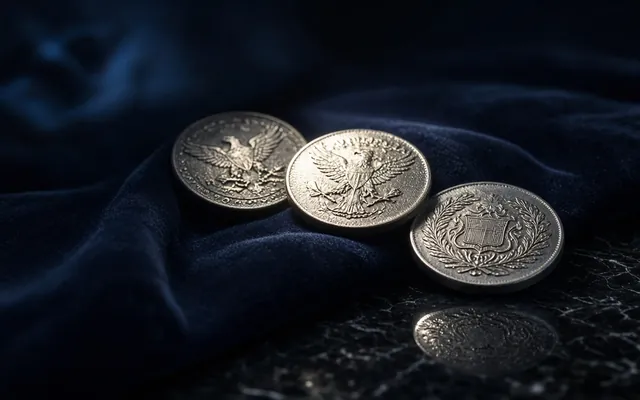
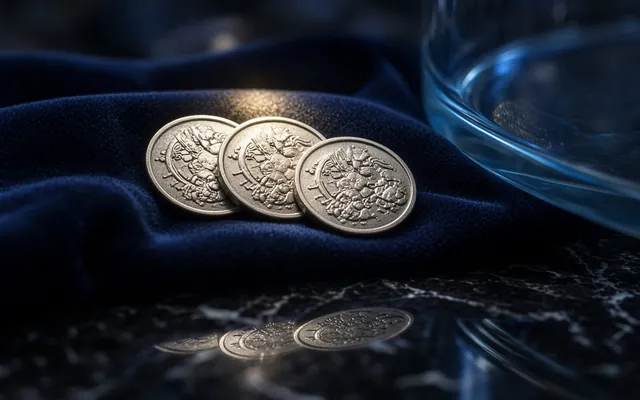
tr70: Grok v2 theme art (Prism, Midnight Gallery, The Mint, Shipwreck, Fireside Den hero)
Reviewed all 26 v2 takes; take1 wins for each world. Result notes in
docs/art/requests/artreq_20261001-1940_worlds-icons-v2.result.md.

Claude-Session: https://claude.ai/code/session_01LGUjV4xgKz72hfHsr21mJf

diff --git a/index.html b/index.html
@@ -46,9 +46,9 @@
       } catch (e) {}
     })();
   </script>
-  <link rel="stylesheet" href="styles.css?v=tr69" />
-  <link rel="stylesheet" href="splash.css?v=tr69" />
-  <link rel="stylesheet" href="styles/themes.css?v=tr69" />
+  <link rel="stylesheet" href="styles.css?v=tr70" />
+  <link rel="stylesheet" href="splash.css?v=tr70" />
+  <link rel="stylesheet" href="styles/themes.css?v=tr70" />
   <!-- Only the ACTIVE atmosphere's stylesheet loads (written here so it still blocks first paint: no flash of the wrong theme).
        Switching later is app.js (atmoCss loader): the new sheet loads first, then data-atmo flips and the old sheet is removed.
        sw.js precaches all 20 so switching works offline. styles/atmo/all.css is no longer linked. -->
@@ -60,19 +60,19 @@
       document.write('<link rel="stylesheet" id="atmo-css" data-atmo-css="' + a + '" href="styles/atmo/' + a + '.css' + window.__trAtmoQ + '">');
     })();
   </script>
-  <noscript><link rel="stylesheet" href="styles/atmo/afterhours.css?v=tr69" /></noscript>
-  <link rel="stylesheet" href="styles/slab-legibility.css?v=tr69" />
-  <!-- AGENT STYLE HOOKS: an agent replaces ONLY its own line with <link rel="stylesheet" href="styles/NAME.css?v=tr69" /> -->
-  <link rel="stylesheet" href="styles/hall.css?v=tr69" />
-  <link rel="stylesheet" href="styles/gallery.css?v=tr69" />
-  <link rel="stylesheet" href="styles/vault.css?v=tr69" />
-  <link rel="stylesheet" href="styles/study.css?v=tr69" />
-  <link rel="stylesheet" href="styles/wants.css?v=tr69" />
-  <link rel="stylesheet" href="styles/lab.css?v=tr69" />
-  <link rel="stylesheet" href="styles/table.css?v=tr69" />
-  <link rel="stylesheet" href="styles/fx.css?v=tr69" />
-  <link rel="stylesheet" href="styles/scene.css?v=tr69" />
-  <link rel="stylesheet" href="styles/worlds.css?v=tr69" />
+  <noscript><link rel="stylesheet" href="styles/atmo/afterhours.css?v=tr70" /></noscript>
+  <link rel="stylesheet" href="styles/slab-legibility.css?v=tr70" />
+  <!-- AGENT STYLE HOOKS: an agent replaces ONLY its own line with <link rel="stylesheet" href="styles/NAME.css?v=tr70" /> -->
+  <link rel="stylesheet" href="styles/hall.css?v=tr70" />
+  <link rel="stylesheet" href="styles/gallery.css?v=tr70" />
+  <link rel="stylesheet" href="styles/vault.css?v=tr70" />
+  <link rel="stylesheet" href="styles/study.css?v=tr70" />
+  <link rel="stylesheet" href="styles/wants.css?v=tr70" />
+  <link rel="stylesheet" href="styles/lab.css?v=tr70" />
+  <link rel="stylesheet" href="styles/table.css?v=tr70" />
+  <link rel="stylesheet" href="styles/fx.css?v=tr70" />
+  <link rel="stylesheet" href="styles/scene.css?v=tr70" />
+  <link rel="stylesheet" href="styles/worlds.css?v=tr70" />
   <!--WS:themes: shared atmosphere system + one stylesheet per atmosphere (notes/agents/themes.md)-->
 </head>
 <body>
@@ -1184,56 +1184,56 @@
 
     <div id="toast" class="toast" hidden role="status" aria-live="polite"></div>
   </div>
-  <script>window.TITAN_BUILD = "tr69";</script>
+  <script>window.TITAN_BUILD = "tr70";</script>
   <script src="js/three.min.js"></script>
-  <script src="splash.js?v=tr69"></script>
+  <script src="splash.js?v=tr70"></script>
   <script src="js/OrbitControls.js"></script>
   <script src="js/fflate.min.js"></script>
   <script src="js/USDZExporter.js"></script>
   <script src="js/qrcode.min.js"></script>
   <script src="js/openseadragon.min.js"></script>
-  <script src="spatial.js?v=tr69"></script>
-  <script src="deepzoom.js?v=tr69"></script>
-  <script src="atlas.js?v=tr69"></script>
-  <script src="app.js?v=tr69"></script>
-  <script src="js/playlist.js?v=tr69"></script>
-  <script src="audio.js?v=tr69"></script>
-  <script src="ambient.js?v=tr69"></script>
-  <script src="wings/atmo/core.js?v=tr69"></script>
-  <script src="wings/atmo/afterhours.js?v=tr69"></script>
-  <script src="wings/atmo/conservator.js?v=tr69"></script>
-  <script src="wings/atmo/colossus.js?v=tr69"></script>
-  <script src="wings/atmo/nocturne.js?v=tr69"></script>
-  <script src="wings/atmo/odyssey.js?v=tr69"></script>
-  <script src="wings/atmo/cursedwing.js?v=tr69"></script>
-  <script src="wings/atmo/kaleido.js?v=tr69"></script>
-  <script src="wings/atmo/abyss.js?v=tr69"></script>
-  <script src="wings/atmo/neon.js?v=tr69"></script>
-  <script src="wings/atmo/notepad.js?v=tr69"></script>
-  <script src="wings/atmo/construct.js?v=tr69"></script>
-  <script src="wings/atmo/xeno.js?v=tr69"></script>
-  <script src="wings/atmo/solaris.js?v=tr69"></script>
-  <script src="wings/atmo/alchemist.js?v=tr69"></script>
-  <script src="wings/atmo/glacier.js?v=tr69"></script>
-  <script src="wings/atmo/valhalla.js?v=tr69"></script>
-  <script src="wings/atmo/dynasty.js?v=tr69"></script>
-  <script src="wings/atmo/zen.js?v=tr69"></script>
-  <script src="wings/atmo/samadhi.js?v=tr69"></script>
-  <script src="wings/atmo/silkroad.js?v=tr69"></script>
-  <!-- AGENT SCRIPT HOOKS (load after the app): an agent replaces ONLY its own line with <script src="wings/NAME.js?v=tr69"></script> -->
-  <script src="wings/hall.js?v=tr69"></script>
-  <script src="wings/gallery.js?v=tr69"></script>
-  <script src="wings/vault.js?v=tr69"></script>
-  <script src="wings/albums-data.js?v=tr69"></script><script src="wings/study.js?v=tr69"></script>
-  <script src="wings/wants.js?v=tr69"></script>
-  <script src="wings/lab.js?v=tr69"></script>
+  <script src="spatial.js?v=tr70"></script>
+  <script src="deepzoom.js?v=tr70"></script>
+  <script src="atlas.js?v=tr70"></script>
+  <script src="app.js?v=tr70"></script>
+  <script src="js/playlist.js?v=tr70"></script>
+  <script src="audio.js?v=tr70"></script>
+  <script src="ambient.js?v=tr70"></script>
+  <script src="wings/atmo/core.js?v=tr70"></script>
+  <script src="wings/atmo/afterhours.js?v=tr70"></script>
+  <script src="wings/atmo/conservator.js?v=tr70"></script>
+  <script src="wings/atmo/colossus.js?v=tr70"></script>
+  <script src="wings/atmo/nocturne.js?v=tr70"></script>
+  <script src="wings/atmo/odyssey.js?v=tr70"></script>
+  <script src="wings/atmo/cursedwing.js?v=tr70"></script>
+  <script src="wings/atmo/kaleido.js?v=tr70"></script>
+  <script src="wings/atmo/abyss.js?v=tr70"></script>
+  <script src="wings/atmo/neon.js?v=tr70"></script>
+  <script src="wings/atmo/notepad.js?v=tr70"></script>
+  <script src="wings/atmo/construct.js?v=tr70"></script>
+  <script src="wings/atmo/xeno.js?v=tr70"></script>
+  <script src="wings/atmo/solaris.js?v=tr70"></script>
+  <script src="wings/atmo/alchemist.js?v=tr70"></script>
+  <script src="wings/atmo/glacier.js?v=tr70"></script>
+  <script src="wings/atmo/valhalla.js?v=tr70"></script>
+  <script src="wings/atmo/dynasty.js?v=tr70"></script>
+  <script src="wings/atmo/zen.js?v=tr70"></script>
+  <script src="wings/atmo/samadhi.js?v=tr70"></script>
+  <script src="wings/atmo/silkroad.js?v=tr70"></script>
+  <!-- AGENT SCRIPT HOOKS (load after the app): an agent replaces ONLY its own line with <script src="wings/NAME.js?v=tr70"></script> -->
+  <script src="wings/hall.js?v=tr70"></script>
+  <script src="wings/gallery.js?v=tr70"></script>
+  <script src="wings/vault.js?v=tr70"></script>
+  <script src="wings/albums-data.js?v=tr70"></script><script src="wings/study.js?v=tr70"></script>
+  <script src="wings/wants.js?v=tr70"></script>
+  <script src="wings/lab.js?v=tr70"></script>
   <!--WJ:table-->
-  <script src="wings/fx/engine.js?v=tr69"></script><script src="wings/fx/presets.js?v=tr69"></script><script src="wings/fx/ui.js?v=tr69"></script>
-  <script src="wings/themes/manifest.js?v=tr69"></script>
-  <script src="wings/themes/worlds.js?v=tr69"></script>
-  <script src="wings/scene-engine.js?v=tr69"></script>
-  <script src="wings/scene.js?v=tr69"></script>
+  <script src="wings/fx/engine.js?v=tr70"></script><script src="wings/fx/presets.js?v=tr70"></script><script src="wings/fx/ui.js?v=tr70"></script>
+  <script src="wings/themes/manifest.js?v=tr70"></script>
+  <script src="wings/themes/worlds.js?v=tr70"></script>
+  <script src="wings/scene-engine.js?v=tr70"></script>
+  <script src="wings/scene.js?v=tr70"></script>
   <!--WJ:themes: crest registry + one crest file per atmosphere-->
-  <script src="wings/themes.js?v=tr69"></script>
+  <script src="wings/themes.js?v=tr70"></script>
 </body>
 </html>

diff --git a/sw.js b/sw.js
@@ -1,10 +1,10 @@
-/* Titan Reliquary service worker · build tr69
+/* Titan Reliquary service worker · build tr70
    - App shell precached per build (versioned cache names; old caches deleted on activate)
    - version.json + data/*: network-first (no-store) so a new publish always wins; cache = offline fallback
    - audio/ambience/: runtime cache-first (filled the first time a sound is played; not precached)
    - thumbs/: cache-first (URLs carry ?v=<file hash>, so a changed image is a new URL)
    NOTE: publish_all.sh regenerates the build stamp on merge — update BUILD + SHELL_URLS then. */
-const BUILD = "tr69";
+const BUILD = "tr70";
 const SHELL = "titan-shell-" + BUILD;
 const DATA = "titan-data-" + BUILD;
 const IMG = "titan-thumbs-v1";

diff --git a/docs/art/requests/artreq_20261001-1940_worlds-icons-v2.result.md b/docs/art/requests/artreq_20261001-1940_worlds-icons-v2.result.md
@@ -1,0 +1,14 @@
+# artreq_20261001-1940_worlds-icons-v2: result (reviewed 2026-10-01, Claude)
+
+Delivered by Grok: 26 PNGs at 1168x784 (below the 2560x1600 spec, the model's native size; same class as v1's 1152x720).
+Shipped in tr70 (center-cropped to 16:10, WebP q82 heroes / 640x400 cards):
+
+| World | Pick | Why |
+|---|---|---|
+| Prism (`kaleido`) | hero take1 + card | real spectrum through the prism onto the coin; clearly reads "Prism" (v1 was a coin on a crystal) |
+| Midnight Gallery (`afterhours`) | hero take1 + card | skylight beams, vitrine at right, quiet top-left |
+| The Mint (`colossus`) | hero take1 + card | weighted screw press + pour + tray, matches the brief |
+| Shipwreck (`abyss`) | hero take1 + card | galleon ribs, cob heap, chest; better treasure read than v1 |
+| Fireside Den (`fireside`, stored, no world yet) | hero take1; card kept v1 | v2 card shows blank discs |
+
+Not shipped (paused by the owner: splash + icon redesign): `app_icon_concept_A/B.png`, `splash_key_art_take1-3.png`. Originals stay on Drive.
